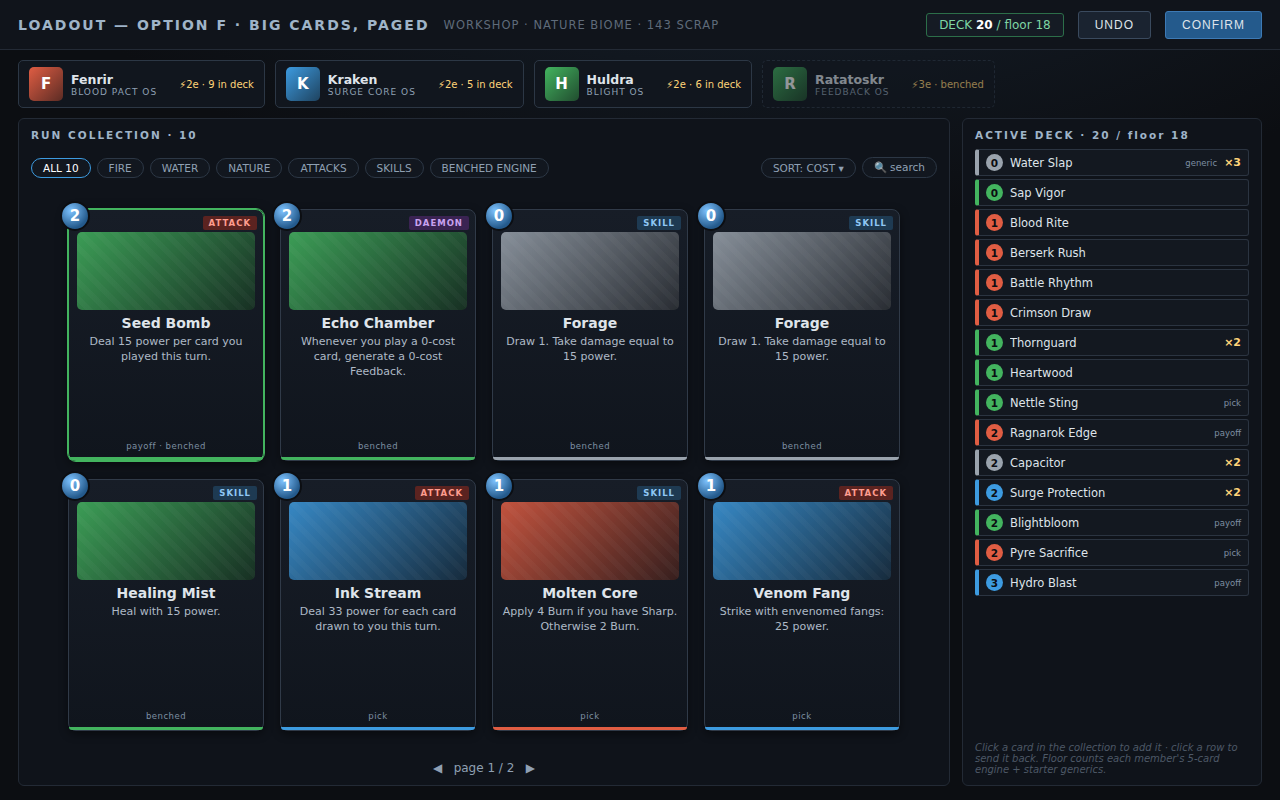
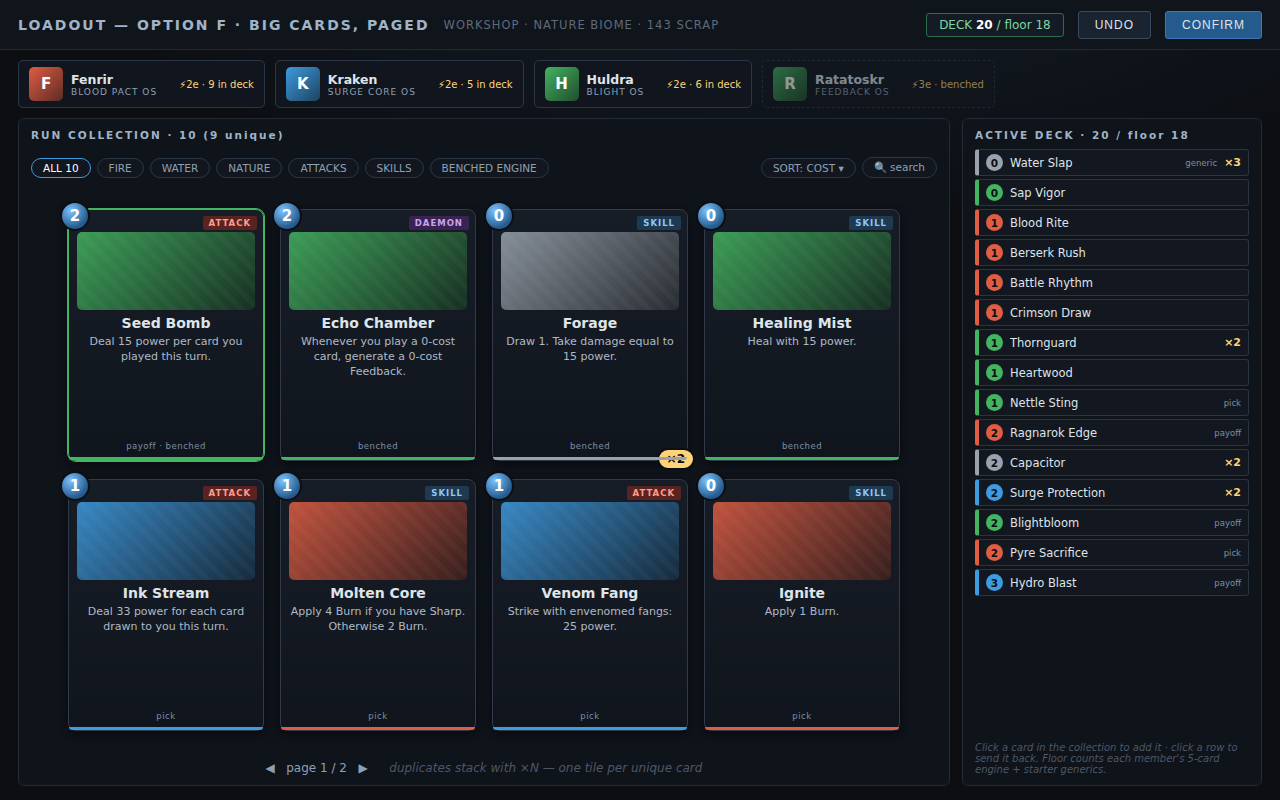
ticket 62 amendment: duplicates stack with a xN badge everywhere - one tile per unique card; F reference updated

diff --git a/docs/wayfinder/steam-release/research/62-editor-proto/editor_F_big_paged.html b/docs/wayfinder/steam-release/research/62-editor-proto/editor_F_big_paged.html
@@ -24,6 +24,7 @@ body{background:#0c0e12;color:#dfe4ea;font-family:'Segoe UI',system-ui,sans-seri
 .bigc .desc{font-size:10px;color:#aeb9c6;text-align:center;line-height:1.35;flex:1;overflow:hidden}
 .bigc .tags{font-size:8.5px;color:#7d8ea1;text-align:center;letter-spacing:.5px;min-height:11px}
 .bigc.payoff{border-color:var(--el);box-shadow:0 0 0 1px var(--el),0 3px 12px #0008}
+.bigc .nbadge{position:absolute;bottom:-10px;right:-8px;background:#ffd479;color:#0c0e12;font-weight:800;font-size:12px;border-radius:11px;padding:2px 8px;border:2px solid #0c0e12}
 .bigc .elbar{position:absolute;bottom:0;left:0;right:0;height:3px;border-radius:0 0 8px 8px;background:var(--el)}
 /* deck rows */
 .drow{display:flex;align-items:center;gap:7px;border:1px solid #2b3441;border-left:4px solid var(--el);border-radius:3px;background:#131820;padding:3px 7px;height:27px;font-size:11.5px}
@@ -56,7 +57,7 @@ body{background:#0c0e12;color:#dfe4ea;font-family:'Segoe UI',system-ui,sans-seri
      <div><div class="nm">Kraken</div><div class="os">SURGE CORE OS</div></div><div class="spacer" style="width:6px"></div><div class="meta">⚡2e · 5 in deck</div></div><div class="rmem" style="--el:#43b45f"><div class="dot">H</div>
      <div><div class="nm">Huldra</div><div class="os">BLIGHT OS</div></div><div class="spacer" style="width:6px"></div><div class="meta">⚡2e · 6 in deck</div></div><div class="rmem benched" style="--el:#43b45f"><div class="dot">R</div>
      <div><div class="nm">Ratatoskr</div><div class="os">FEEDBACK OS</div></div><div class="spacer" style="width:6px"></div><div class="meta">⚡3e · benched</div></div></div>
-<div class="bodyF"><div class="center panel"><h2>RUN COLLECTION · 10</h2><div class="filters"><span class="f on">ALL 10</span><span class="f">FIRE</span><span class="f">WATER</span><span class="f">NATURE</span><span class="f">ATTACKS</span><span class="f">SKILLS</span><span class="f">BENCHED ENGINE</span><span class="spacer"></span><span class="f">SORT: COST ▾</span><span class="f">🔍 search</span></div>
+<div class="bodyF"><div class="center panel"><h2>RUN COLLECTION · 10 (9 unique)</h2><div class="filters"><span class="f on">ALL 10</span><span class="f">FIRE</span><span class="f">WATER</span><span class="f">NATURE</span><span class="f">ATTACKS</span><span class="f">SKILLS</span><span class="f">BENCHED ENGINE</span><span class="spacer"></span><span class="f">SORT: COST ▾</span><span class="f">🔍 search</span></div>
   <div class="grid"><div class="bigc payoff" style="--el:#43b45f">
       <div class="gem">2</div><div class="typ ATTACK">ATTACK</div>
       <div class="art"></div><div class="nm">Seed Bomb</div>
@@ -66,10 +67,7 @@ body{background:#0c0e12;color:#dfe4ea;font-family:'Segoe UI',system-ui,sans-seri
       <div class="desc">Whenever you play a 0-cost card, generate a 0-cost Feedback.</div><div class="tags">benched</div><div class="elbar"></div></div><div class="bigc" style="--el:#9aa3ad">
       <div class="gem">0</div><div class="typ SKILL">SKILL</div>
       <div class="art"></div><div class="nm">Forage</div>
-      <div class="desc">Draw 1. Take damage equal to 15 power.</div><div class="tags">benched</div><div class="elbar"></div></div><div class="bigc" style="--el:#9aa3ad">
-      <div class="gem">0</div><div class="typ SKILL">SKILL</div>
-      <div class="art"></div><div class="nm">Forage</div>
-      <div class="desc">Draw 1. Take damage equal to 15 power.</div><div class="tags">benched</div><div class="elbar"></div></div><div class="bigc" style="--el:#43b45f">
+      <div class="desc">Draw 1. Take damage equal to 15 power.</div><div class="tags">benched</div><div class="nbadge">×2</div><div class="elbar"></div></div><div class="bigc" style="--el:#43b45f">
       <div class="gem">0</div><div class="typ SKILL">SKILL</div>
       <div class="art"></div><div class="nm">Healing Mist</div>
       <div class="desc">Heal with 15 power.</div><div class="tags">benched</div><div class="elbar"></div></div><div class="bigc" style="--el:#3d9be0">
@@ -81,7 +79,10 @@ body{background:#0c0e12;color:#dfe4ea;font-family:'Segoe UI',system-ui,sans-seri
       <div class="desc">Apply 4 Burn if you have Sharp. Otherwise 2 Burn.</div><div class="tags">pick</div><div class="elbar"></div></div><div class="bigc" style="--el:#3d9be0">
       <div class="gem">1</div><div class="typ ATTACK">ATTACK</div>
       <div class="art"></div><div class="nm">Venom Fang</div>
-      <div class="desc">Strike with envenomed fangs: 25 power.</div><div class="tags">pick</div><div class="elbar"></div></div></div>
-  <div class="pager">◀ &nbsp; page 1 / 2 &nbsp; ▶</div></div><div class="panel" style="width:300px;flex:none"><h2>ACTIVE DECK · 20 / floor 18</h2>
+      <div class="desc">Strike with envenomed fangs: 25 power.</div><div class="tags">pick</div><div class="elbar"></div></div><div class="bigc" style="--el:#e05d43">
+      <div class="gem">0</div><div class="typ SKILL">SKILL</div>
+      <div class="art"></div><div class="nm">Ignite</div>
+      <div class="desc">Apply 1 Burn.</div><div class="tags">pick</div><div class="elbar"></div></div></div>
+  <div class="pager">◀ &nbsp; page 1 / 2 &nbsp; ▶ &nbsp; <span style="color:#4d5866;font-style:italic">duplicates stack with ×N — one tile per unique card</span></div></div><div class="panel" style="width:300px;flex:none"><h2>ACTIVE DECK · 20 / floor 18</h2>
   <div style="display:flex;flex-direction:column;gap:3px;overflow:auto;flex:1"><div class="drow" style="--el:#9aa3ad"><span class="g">0</span><span class="nm">Water Slap</span><span class="t">generic</span><span class="x">×3</span></div><div class="drow" style="--el:#43b45f"><span class="g">0</span><span class="nm">Sap Vigor</span></div><div class="drow" style="--el:#e05d43"><span class="g">1</span><span class="nm">Blood Rite</span></div><div class="drow" style="--el:#e05d43"><span class="g">1</span><span class="nm">Berserk Rush</span></div><div class="drow" style="--el:#e05d43"><span class="g">1</span><span class="nm">Battle Rhythm</span></div><div class="drow" style="--el:#e05d43"><span class="g">1</span><span class="nm">Crimson Draw</span></div><div class="drow" style="--el:#43b45f"><span class="g">1</span><span class="nm">Thornguard</span><span class="x">×2</span></div><div class="drow" style="--el:#43b45f"><span class="g">1</span><span class="nm">Heartwood</span></div><div class="drow" style="--el:#43b45f"><span class="g">1</span><span class="nm">Nettle Sting</span><span class="t">pick</span></div><div class="drow" style="--el:#e05d43"><span class="g">2</span><span class="nm">Ragnarok Edge</span><span class="t">payoff</span></div><div class="drow" style="--el:#9aa3ad"><span class="g">2</span><span class="nm">Capacitor</span><span class="x">×2</span></div><div class="drow" style="--el:#3d9be0"><span class="g">2</span><span class="nm">Surge Protection</span><span class="x">×2</span></div><div class="drow" style="--el:#43b45f"><span class="g">2</span><span class="nm">Blightbloom</span><span class="t">payoff</span></div><div class="drow" style="--el:#e05d43"><span class="g">2</span><span class="nm">Pyre Sacrifice</span><span class="t">pick</span></div><div class="drow" style="--el:#3d9be0"><span class="g">3</span><span class="nm">Hydro Blast</span><span class="t">payoff</span></div></div>
   <div class="hint" style="margin-top:8px">Click a card in the collection to add it · click a row to send it back. Floor counts each member's 5-card engine + starter generics.</div></div></div></div></body></html>

diff --git a/docs/wayfinder/steam-release/tickets/62-proto-deck-roster-editor.md b/docs/wayfinder/steam-release/tickets/62-proto-deck-roster-editor.md
@@ -29,3 +29,7 @@ Closed 2026-08-26 after two mockup rounds (6 layouts). Mockups in [research/62-e
 - Same F editor serves all four edit surfaces (market, workshop, boundary accept, pre-gauntlet); at the marketplace the sell verb appears on collection/deck cards per ticket 61 §4.
 
 Henry's requirements that drove it: energy cost, skill-vs-attack, and descriptions readable on every card; Hearthstone collection feel; deck on the right; roster top.
+
+## Amendment (Henry, 2026-08-26) — duplicate rule
+
+**One tile per unique card, everywhere.** Duplicates never repeat as separate tiles: the collection book shows a single big card with a gold **×N badge** (bottom-right corner), the deck list already stacks with ×N on the row. Adding/removing a duplicate increments/decrements N; the tile disappears at 0. The header counts both: 'RUN COLLECTION · 10 (9 unique)'. Reference mockup updated in place (editor_F_big_paged.html/png — see Forage ×2).
